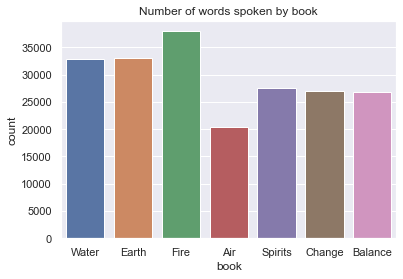
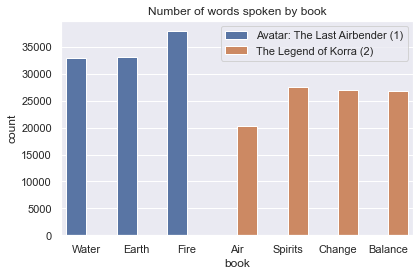
words

diff --git a/index.md b/index.md
@@ -90,21 +90,29 @@ The ATLA universe contains characters of many shapes and sizes. Here, we'll expl
 
 Above, we see the distrubution of nationality within avatar. We see that the Earth Kingdom is by far the most represented nation, but the Fire Nation following behind in second. It makes sense that the Water Tribe and Air Nation are small, since they are much closer to tribes found in the real world. We cannot actually say that the Earth Kingdom has a larger population than the Fire Nation from the above. What we can say however, is that the main characters of both series interact with characters from the Earth Kingdom to a greater degree. The United Republic, first formed in the second series, receives less attention than either of the major nations.
 
+One of the selling points of ATLA is that characters are able to perform *bending*. Bending is the act of manipulating one of the basic four elements: fire, water, earth and air. Each character is naturally attuned toward a specific element. The key aspect of the *Avatar* is that they are able to manipulate all four elements.
+
 <img src="images/bending_dist.png">
 
 As we can see above, the *vast* majority of characters are non-benders. This gives us an interesting aspect of the series. Mastering a bending art is rare, and most common folk will never master it. It is also expected that this plot is similar to the distribution of nationalities. Characters from the Earth Kingdom are typically earthbenders and so on.
 
 <img src="images/gender_dist.png">
 
-The gender distribution is a bit surprising. It appears that male characters far outweigh the female characters by a factor of more than 2. Determining why this is the case is difficult. In the end, it comes up to how the writers determined to frame the show. The show mainly deals with war and conflict, that is traditionally handled by men.
-
+The gender distribution is a bit surprising. It appears that male characters far outweigh the female characters by a factor of more than 2. Determining why this is the case is difficult. In the end, it comes up to how the writers determined to frame the show. The show mainly deals with war and conflict, that is traditionally handled by men. Although, we dare not guess the concrete reason.
 
 ## The spoken word of *Avatar: The Last Airbender*
+Before expanding on the *dialogue* within the series, now is a good time to explain the episodic structure of ATLA briefly. As mentioned before, ATLA consists of two series: *Avatar: The Last Airbender* and *The Legend of Korra*. Each series consists of several seasons, where an individual season is denoted a *book*.
 
-<!--- summarize the structure of avatar, episode counts, seasons etc.... --->
-<!--- explain about the character dialogue.... --->
+<img src="images/ep_per_season.png">
 
-<!--- show word distribution here --->
+Here we see the books of each series, and the number of episodes in each. Each book is also named according to an elemental concept, such as *Water* or *Fire*. *Avatar: The Last Airbender* consists of **61** episodes across **3** books. *The Legend of Korra* consists of **52** episodes across **4** books. It is important to note that both series are similar in length, making comparison between the two easier.
+
+Naturally, characters within the show do speak, and therefore have dialogue. Dialogue is used to portray emotions and desires of characters, and that means that it can be *analyzed*. The fandom wiki contains *transcripts* of all episodes mentioned above, allowing us to extract individual lines of dialogue for each character.
+
+<img src="images/words_per_book.png">
+
+The above plot shows the number of *spoken words* in each book.
+
 # Community detection
 In order to easier visualize the dataset, we narrow our focus to Austin, Texas. Austin is a city located in the United States within the state of Texas, serving as the state capital city. With a population of 978,908, it is the 11th largest city in the US
 by population count. The city is therefore populous enough to be representative of the *Yelp* dataset. Austin also encompasses more than 100 neighbourhoods, making it ideal for map-style visualizations.
@@ -123,14 +131,6 @@ The map below shows the colour-coded (defined by the chart to the right) review 
 We see *clear* groupings when considering the review average. Central, South, West, Southwest and Northwest are generally considered to be the *desired* parts of Austin (Lin and Ji 2014). These are high income areas
 with low crime rates, and are typically not ethnically diverse. These parts of Austin enjoy a high review average - most neighbourhoods have an average in the $$3.8$$-$$4.3$$ range.
 
-## Business Attributes of Food-Places
-The *Yelp* dataset contains several *attributes* for each business, denoting which additional facilities and services are provided. For example, this could be whether a business accepts credit card, allows dogs, provides free
-versus paid WiFi and so on. These attributes are interesting, since we can use them to compare the average rating of a business that provides an attribute versus a business that does not.
-
-{% include attributes_and_avg_review.html %}
-
-The bar plot above compares the review average for five different attributes for specifically *food places*. Some attributes are binary (e.g., wheelchair accessible), while others (such as price range) contain multiple values. **Hover** over a bar column to see the exact value.
-We implore the reader to explore the visualization on their own - but *dog lovers be aware*: the results might not be as you would have liked. As an example, try to also consider a business' smoking policy. In this case, there is a clear preference by the reviewers. Some of these results might be interesting, but remember that we must interpret them with a grain of salt, as correlation does not necessarily imply causation. The results are more so included for novel reasons.
 
 # Final Words
 As stated, *Yelp* has a negative reputation. However, by examining the *Yelp* dataset, some interesting elements could be found about the culture of *Yelp*, its impact and some elements potential business owners should have in mind. Reviews are getting more positive, though also more polarized. However, it is quite clear that social inequalities are reflected in the user reviews, which adds to the negative aspects of *Yelp*. We also saw how attributes affect the rating how a business, much to the dismay of dog owners. Either way, *Yelp* has, by the looks of it, come to stay. But business-owners-to-be might need to consider more than e.g. just the quality of their food, as other variables seem to impact reviews. Furthermore, reviewers of *Yelp* (which might include you), need to consider the impact of reviews and be fair.
